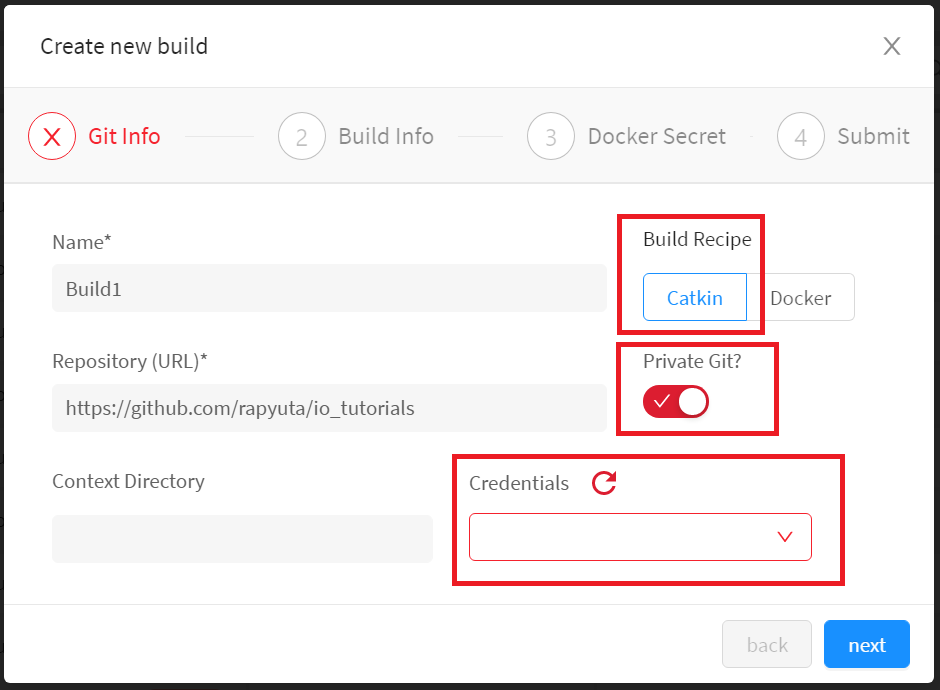
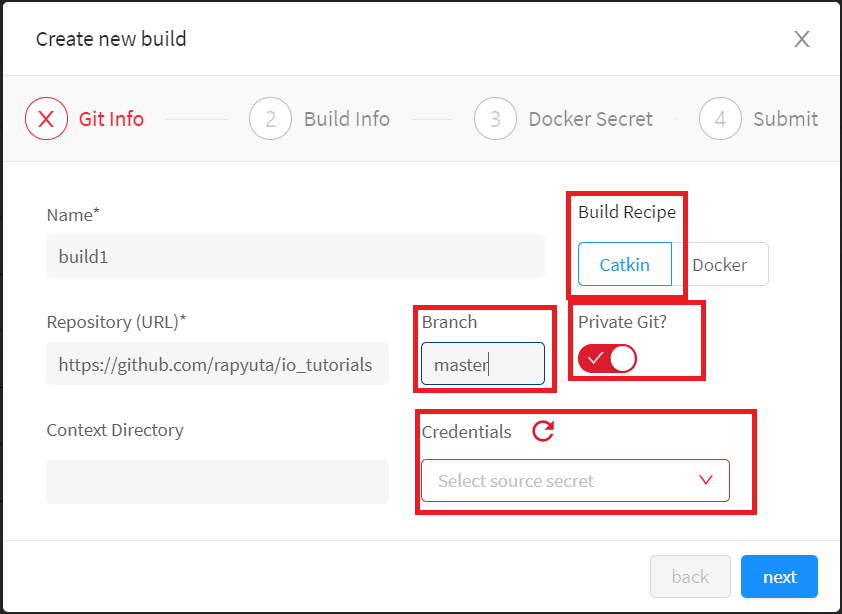
First draft for build update

diff --git a/hugo/content/3_how-tos/33_software-development/331_create-builds.md b/hugo/content/3_how-tos/33_software-development/331_create-builds.md
@@ -27,7 +27,7 @@ tags:
 ---
   
   
-## Creating Build by Catkin recipe 
+## Creating Build by Catkin Recipe 
 
 To create a build using Catkin recipe, do the following. 
 
@@ -43,11 +43,16 @@ To create a build using Catkin recipe, do the following.
 
     c. In the **Repository (URL)** field, enter the URL of the git repository from which you want to create a build. For example, `https://github.com/rapyuta/io_tutorials`.
 
-    d. Optionally, if the git repository is a private git, then click the **Private Git** radio button and select the credential from the **Credential** drop-down menu. If you have not created any secret for the repository, [create a source secret](/how-to-guides/account-management/setup-private-git-access/#creating-source-secret).
+    d. In the **Branch** field, enter the branch name of the repository from which you want to create the build. 
+    {{%notice info%}}
+    If you don't specify any branch name in the **Branch** field, then the default branch name of the repository is considered.
+    {{%/notice%}}
 
-    e. Optionally, you can specify the **Context Directory** field by entering the path of the directory where you want to create the build.
+    e. Optionally, if the git repository is a private git, then click the **Private Git** radio button and select the credential from the **Credential** drop-down menu. If you have not created any secret for the repository, [create a source secret](/how-to-guides/account-management/setup-private-git-access/#creating-source-secret).
 
-    f. Click **Next**. 
+    f. Optionally, you can specify the **Context Directory** field by entering the path of the directory where you want to create the build.
+
+    g. Click **Next**. 
 
   ![goo](/images/core-concepts/builds/build-creation/catkin-recipe.png?classes=border,shadow&width=30pc)
 
@@ -61,7 +66,7 @@ To create a build using Catkin recipe, do the following.
 
     c. In the **ROS Version** area, select either **Kinetic** or **Melodic**.
     
-    d. Optionally, to add ROS parameter to the build, in the **CATKIN BUILD PARAMETERS** area, click **Add Parameter**.
+    d. Optionally, to add ROS parameter to the build, in the **CATKIN BUILD PARAMETERS** area, click **Add Parameter**. For details about Catkin build parameters, [Click here](/5_deep-dives/52_software-development/523_ros-support-for-builds).
 
     e. Click **Next**.
 
@@ -88,7 +93,7 @@ To create a build using Catkin recipe, do the following.
 
   
 
-## Creating Build by Docker recipe 
+## Creating Build by Docker Recipe 
 
  To create a build using docker recipe, do the following.
 
@@ -104,11 +109,16 @@ To create a build using Catkin recipe, do the following.
 
     c. In the **Repository (URL)** field, enter the URL of the git repository from which you want to create a build. For example, `https://github.com/rapyuta/io_tutorials`.
 
-    d. Optionally, if the git repository is a private git, then click the **Private Git** toggle button and select the credential from the **Credential** drop-down menu. If you have not created any secret for the repository, [create a source secret](/how-to-guides/account-management/setup-private-git-access/#creating-source-secret).
+    d. In the **Branch** field, enter the branch name of the repository from which you want to create the build. 
+    {{%notice info%}}
+    If you don't specify any branch name in the **Branch** field, then the default branch name of the repository is considered.
+    {{%/notice%}}
 
-    e. Optionally, you can specify the **Context Directory** field by entering the path of the directory where you want to create the build.
+    e. Optionally, if the git repository is a private git, then click the **Private Git** toggle button and select the credential from the **Credential** drop-down menu. If you have not created any secret for the repository, [create a source secret](/how-to-guides/account-management/setup-private-git-access/#creating-source-secret).
 
-    f. Click **Next**. 
+    f. Optionally, you can specify the **Context Directory** field by entering the path of the directory where you want to create the build.
+
+    g. Click **Next**. 
 
   ![goo](/images/core-concepts/builds/build-creation/docker-recipe.png?classes=border,shadow&width=30pc)
 
@@ -179,13 +189,50 @@ After you have created a build by either Catkin or Docker recipe, you can view t
   * Click **Delete** to delete the build. 
   * Click **Trigger** to trigger a build. 
   * Click **Clone** to clone a build within the same or to different projects.
-  * Click **Show More** to view the details of the build and view the build logs.
+  * Click **More** to view the details of the build and view the build logs.
+  * Click **Edit** to update the details of the build.
 
-  After clicking **Show More**,  the following image is displayed.
+
+  After clicking **More**,  the following image is displayed.
 
   ![goo](/images/core-concepts/builds/build-creation/build-details.png?classes=border,shadow&width=45pc)
 
-## Deleting the build
+## Updating the Build
+
+The rapyuta.io platform also allows you to edit and update your build. Perform the following procedure to edit or update your build.
+
+1. On the left navigation bar, click **Development>Builds**. It displays all the builds available for a project.
+
+2. Click the build that you want to edit. The **Build Details** page appears. 
+
+3. In the **Build Details** page, click **Edit**. The **Edit Build Details** page appears.
+   In the **Edit Build Details** page, you can edit the following fields of the build.    For the following field descriptions, see the procedures to create builds by using Catkin or Docker recipe.
+   * **Repository**
+   * **Branch**
+   {{%notice info%}}
+   If you provide a branch name in the **Repository** field and provide another branch name in the **Branch** field, the **Branch** field name takes the precedence .
+   {{%/notice%}}
+   * **Private Git?**
+   * **Context Directory**
+   * **Dockerfile Path**
+   * **Has ROS Components?**: For docker recipe
+   * **Has Simulation?**
+   * **ROS Version**
+   * **Docker Push/Pull Secret**
+  {{%notice info%}}
+   **Dockerfile Path**, **Has ROS Components?**, **Has Simulation?**, **Docker Push/Pull Secret**, and **ROS Version** fields are editable for docker build recipe.
+  {{%/notice%}}
+   * **Catkin Parameters**: This field is editable for Catkin build recipe only.
+
+
+4. Click **Next**. The build is getting updated, and you can see the progress by clicking the build created in the **Development>Builds** page.
+
+{{%notice note%}}
+After you edit and update the build, you must [trigger](/5_deep-dives/52_software-development/522_trigger-and-rollback-builds) the build for the updates to be applied. 
+
+{{%/notice%}}
+
+## Deleting the Build
 
 {{% notice info %}}
 Note that if the build **Status** is *_BuildInProgress_*, then user will not be able to **Delete** the build. Deletion of such builds will fail with the error message: **can't delete the build since its corresponding build request is still in progress**.
